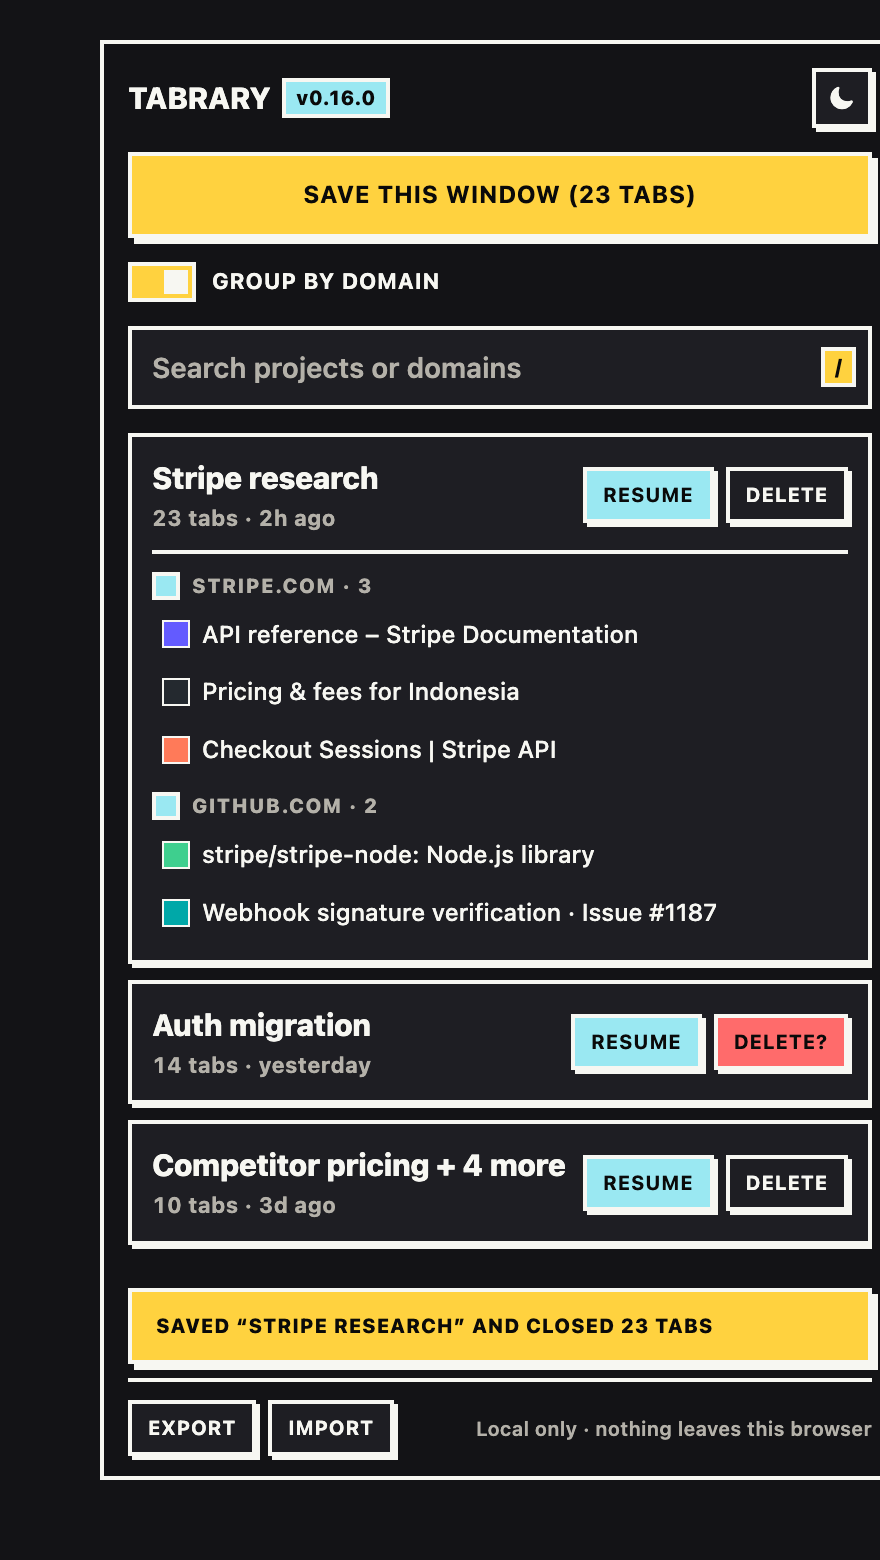
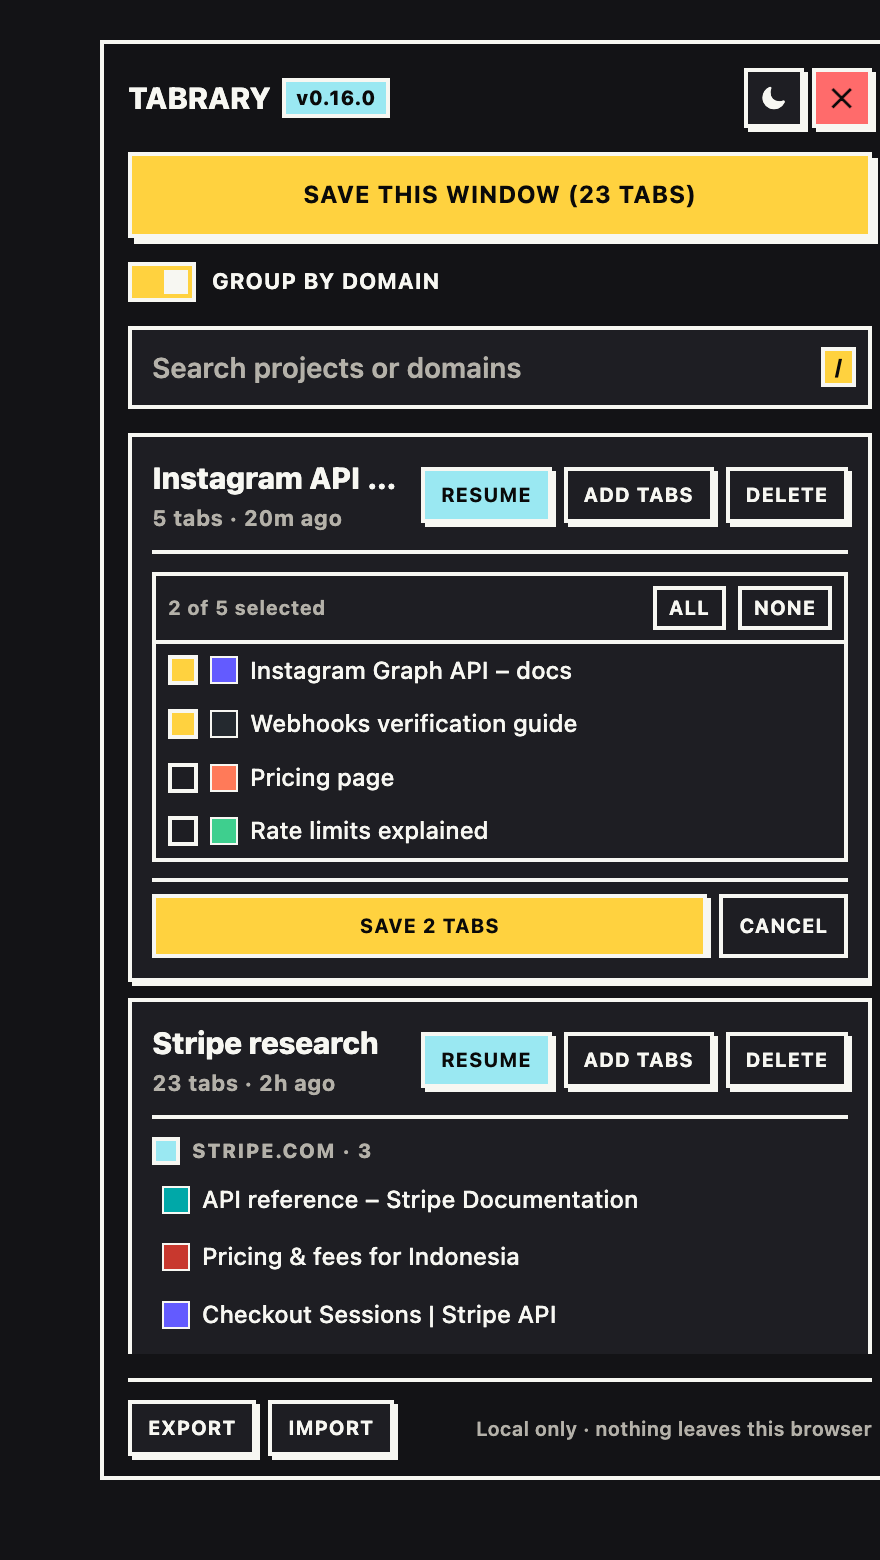
README: launch-ready landing page; gitignore sales docs
- install CTA above the fold + 15s demo GIF slot
- pre-empt the store/safety questions, drop the stale v0.9.0 status
- document add-tabs + close button, fix permissions and gap-scale lines
- preview harness mirrors the shipped panel (header actions, add-tabs
  picker); toast is opt-in via ?toast=1 so it stops covering a card
- .gitignore: sales/ (launch + pricing docs stay local)

Changed region(s): [[0.1227, 0.2769, 1.0, 0.8923], [0.4602, 0.2769, 0.8284, 0.3385], [0.8284, 0.0308, 1.0, 0.0923]]

diff --git a/tools/preview.html b/tools/preview.html
@@ -28,7 +28,10 @@
   <body>
     <header class="head">
       <h1>Tabrary <span class="ver">v0.16.0</span></h1>
-      <button class="theme" type="button">☾</button>
+      <div class="head-actions">
+        <button class="theme" type="button">☾</button>
+        <button id="close" class="theme" type="button" title="Close panel" style="background:var(--danger);color:var(--danger-fg)">✕</button>
+      </div>
     </header>
 
     <section class="actions">
@@ -78,11 +81,44 @@
         <article class="card">
           <div class="card-head">
             <div class="card-text">
+              <button class="card-title">Instagram API research</button>
+              <span class="meta">5 tabs · 20m ago</span>
+            </div>
+            <div class="card-actions">
+              <button class="small cyan">Resume</button>
+              <button class="small">Add tabs</button>
+              <button class="small delete">Delete</button>
+            </div>
+          </div>
+          <div class="card-body">
+            <div class="picker">
+              <div class="picker-head">
+                <span class="picker-count">2 of 5 selected</span>
+                <button class="picker-mini">All</button>
+                <button class="picker-mini">None</button>
+              </div>
+              <div class="picker-list">
+                <label class="picker-row"><input type="checkbox" checked /><img alt="" /><span>Instagram Graph API – docs</span></label>
+                <label class="picker-row"><input type="checkbox" checked /><img alt="" /><span>Webhooks verification guide</span></label>
+                <label class="picker-row"><input type="checkbox" /><img alt="" /><span>Pricing page</span></label>
+                <label class="picker-row"><input type="checkbox" /><img alt="" /><span>Rate limits explained</span></label>
+              </div>
+            </div>
+            <div class="row">
+              <button class="primary">Save 2 tabs</button>
+              <button>Cancel</button>
+            </div>
+          </div>
+        </article>
+        <article class="card">
+          <div class="card-head">
+            <div class="card-text">
               <button class="card-title">Stripe research</button>
               <span class="meta">23 tabs · 2h ago</span>
             </div>
             <div class="card-actions">
               <button class="small cyan">Resume</button>
+              <button class="small">Add tabs</button>
               <button class="small delete">Delete</button>
             </div>
           </div>
@@ -109,6 +145,7 @@
             </div>
             <div class="card-actions">
               <button class="small cyan">Resume</button>
+              <button class="small">Add tabs</button>
               <button class="small armed">Delete?</button>
             </div>
           </div>
@@ -122,6 +159,7 @@
             </div>
             <div class="card-actions">
               <button class="small cyan">Resume</button>
+              <button class="small">Add tabs</button>
               <button class="small delete">Delete</button>
             </div>
           </div>
@@ -140,6 +178,11 @@
     <script>
       const theme = new URLSearchParams(location.search).get('theme') || 'light';
       document.documentElement.dataset.theme = theme;
+
+      // the toast is a live event, not the resting state of the panel — opt in with ?toast=1
+      if (!new URLSearchParams(location.search).has('toast')) {
+        document.querySelector('.toast').hidden = true;
+      }
 
       // ?state=save renders the save form instead of the CTA, like the real panel
       if (new URLSearchParams(location.search).get('state') === 'save') {

diff --git a/README.md b/README.md
@@ -11,11 +11,16 @@ Research → Save as Project → Close tabs → Resume in 1 click
 ```
 
 Local-first: no backend, no account, no AI, no network calls. The whole thing is
-~650 lines of plain JavaScript, loads unpacked with zero build step.
+~700 lines of plain JavaScript, loads unpacked with zero build step.
 
 Works on any Chromium browser 114+: **Chrome, Brave, Edge, Opera, Vivaldi** (built and
 tested on Chrome and Brave). Firefox and Safari are out of scope — the side panel and
 tab-group APIs are Chromium-only.
+
+**[Download the latest release →](https://github.com/pramudya3/tabrary/releases/latest)**
+— 30-second install, no store, no account.
+
+<!-- demo GIF (15s: Save → Close → Resume) goes here: ![Tabrary demo](docs/demo.gif) -->
 
 ## Install (no clone needed)
 
@@ -30,22 +35,31 @@ Updating = download the newer zip, unzip over the same folder, then ⟳ and reop
 side panel. Your projects live in `chrome.storage.local`, not in the folder, so they
 survive.
 
-| Project list | Save a window — pick what to keep | Dark mode |
+**Why isn't this on the Chrome Web Store?** Not there yet — it is pre-validation, so
+the unpacked install keeps it free and instantly iterable. Nothing auto-updates behind
+your back; you choose when to pull a new zip.
+
+**Is it safe?** Permissions are `tabs`, `storage`, `sidePanel`, `tabGroups`, `favicon`
+and there are **no host permissions**, so the extension has no server to talk to. You can
+read all of it in `extension/` — and DevTools shows zero network requests.
+
+| Project list — every row is a resumable window, and `Add tabs` feeds the current window into one | Save a window — pick what to keep | Dark mode |
 |---|---|---|
-| ![Tabrary side panel listing saved research projects](docs/preview-light.png) | ![Tabrary save form: project name, tab picker with checkboxes, save and close](docs/preview-light-save.png) | ![Tabrary side panel in dark mode](docs/preview-dark.png) |
+| ![Tabrary side panel: saved research projects with resume and add-tabs actions](docs/preview-light.png) | ![Tabrary save form: project name, tab picker with checkboxes, save and close](docs/preview-light-save.png) | ![Tabrary side panel in dark mode](docs/preview-dark.png) |
 
 Rendered from the real `extension/sidepanel.css` by `tools/shot.sh` — the same markup
 the panel builds, so these cannot drift from the shipped UI without a check failing.
 
 ## Status
 
-`v0.9.0` — local MVP, pre-store. Three features only:
+`v0.16.0` — local MVP, pre-store. A small surface, on purpose:
 
 | Feature | Notes |
 |---|---|
 | Save window as project | rule-based name suggestion (`Stripe research`), editable |
 | Pick which tabs to save | opening *Save this window* shows the tab list with checkboxes — All / None, a live count, pinned tabs unchecked by default. ⌘/Ctrl-click tabs first and that selection is the starting point |
 | Save + close tabs | closes only the tabs that were saved and are still open |
+| Add tabs to an existing project | `Add tabs` sits in the card header (no scrolling to find it), picker reuses the same list, tabs already in the project start unchecked, duplicates are skipped by URL, and `Save`/`Cancel` stay fixed while the list scrolls |
 | List / search / resume / delete | `Resume` opens the project in a new window, in saved order |
 | Click a saved tab | jumps to that tab if it is already open (same window first), otherwise opens it — no duplicates |
 | Group by domain | one switch: groups the current window now, and every resume after |
@@ -53,6 +67,7 @@ the panel builds, so these cannot drift from the shipped UI without a check fail
 | Pinned tabs are left alone | Chrome refuses to mix pinned and unpinned tabs in one group, so Tabrary never touches them |
 | Export / import JSON | free on purpose — backup is trust, not an upsell |
 | Theme toggle | header button, light by default, saved locally |
+| Close panel | red ✕ in the header, alongside the theme toggle |
 
 Explicitly **not** built: backend, sync, AI, dashboard, team sharing, Firefox/Safari.
 The MVP is deliberately three features so the core loop can be validated before
@@ -62,7 +77,7 @@ anything with a server bill gets written.
 
 ```
 extension/          the unpacked Chrome extension (MV3, no build step)
-  manifest.json       permissions: tabs, storage, sidePanel, tabGroups
+  manifest.json       permissions: tabs, storage, sidePanel, tabGroups, favicon
   sidepanel.html/.js/.css   the whole UI + logic
   lib/store.js        storage + pure rule logic (naming, grouping, stats)
   test/store.test.mjs
@@ -123,7 +138,7 @@ uppercase micro-labels. Light is the default theme; dark inverts the outline
 (`--ink` goes light) so the same hard-shadow language works on a dark surface.
 
 Two enforced scales keep it from drifting: font sizes `10 / 11 / 12 / 13 / 14 / 15px`
-and gaps `2 / 6 / 8 / 12px`, both declared once in `:root`.
+and gaps `2 / 4 / 6 / 8 / 12px`, both declared once in `:root`.
 
 ## Privacy
 
